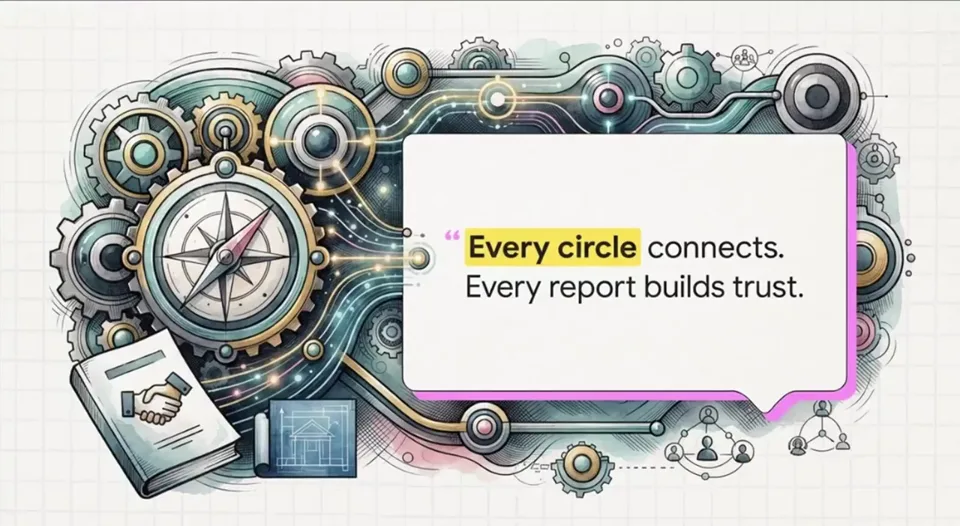
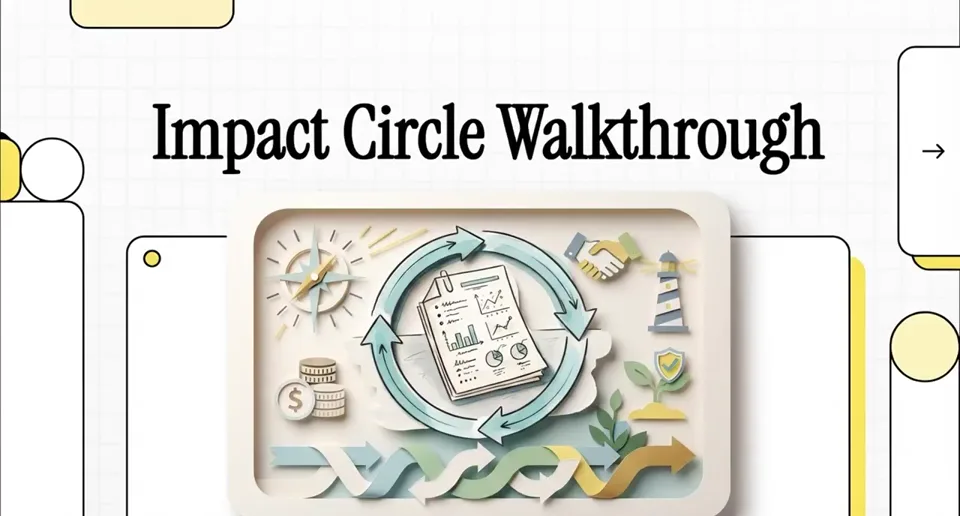
Add files via upload

diff --git a/career-profile.html b/career-profile.html
@@ -1460,8 +1460,8 @@ a.arch-node:hover{box-shadow:var(--shadow-sm);transform:translateY(-2px);color:v
         <div class="vw-head"><h3 id="vw-title">Watch the work</h3><span>Two short videos, AI-narrated with Google NotebookLM from my own sources</span></div>
         <div class="vw-grid">
           <figure class="vw-card">
-            <video controls preload="none" playsinline poster="./assets/thumbs/video-hub.webp" width="1280" height="700" aria-describedby="vw-hub-cap"><source src="./Stewardship_Hub.mp4" type="video/mp4"></video>
-            <figcaption id="vw-hub-cap"><b>Impact Circle · Stewardship Hub walkthrough</b><span>6½ min · How One Harvard partners, the seven-stage Impact Circle, SMARTER gates and VERITAS reports fit together, and the hub's team tools.</span><a href="./impact-circle.html">Open the hub ↗</a></figcaption>
+            <video controls preload="none" playsinline poster="./assets/thumbs/video-hub.webp?v=2" width="1280" height="688" aria-describedby="vw-hub-cap"><source src="./Stewardship_Hub.mp4" type="video/mp4"></video>
+            <figcaption id="vw-hub-cap"><b>Impact Circle · Stewardship Hub walkthrough</b><span>3½ min · The four-layer model, the reporting loop and its Release Gate, the proposed Ph.D. fellowship pilot, and the hub's team rhythm.</span><a href="./impact-circle.html">Open the hub ↗</a></figcaption>
           </figure>
           <figure class="vw-card">
             <video controls preload="none" playsinline poster="./assets/thumbs/video-story.webp?v=3" width="1920" height="1080" aria-describedby="vw-story-cap"><source src="./Story.mp4" type="video/mp4"></video>

diff --git a/README.md b/README.md
@@ -23,7 +23,7 @@
 
 <table>
 <tr>
-<td width="50%" valign="top"><a href="https://narissa-pgm.github.io/AAD/Stewardship_Hub.mp4"><img src="assets/video-hub.webp" width="100%" alt="Play: Impact Circle · Stewardship Hub walkthrough, 6½ minutes"></a><br><b>Impact Circle · Stewardship Hub walkthrough</b><br><sub>How One Harvard partners, the seven-stage Impact Circle, SMARTER gates and VERITAS reports fit together. <a href="https://narissa-pgm.github.io/AAD/impact-circle.html">Open the hub ↗</a></sub></td>
+<td width="50%" valign="top"><a href="https://narissa-pgm.github.io/AAD/Stewardship_Hub.mp4"><img src="assets/video-hub.webp" width="100%" alt="Play: Impact Circle · Stewardship Hub walkthrough, 3½ minutes"></a><br><b>Impact Circle · Stewardship Hub walkthrough</b><br><sub>The four-layer model, the reporting loop and its Release Gate, and the proposed Ph.D. fellowship pilot. <a href="https://narissa-pgm.github.io/AAD/impact-circle.html">Open the hub ↗</a></sub></td>
 <td width="50%" valign="top"><a href="https://narissa-pgm.github.io/AAD/Story.mp4"><img src="assets/video-story.webp" width="100%" alt="Play: donor thank-you story, sample, 4 minutes"></a><br><b>Donor thank-you story · sample</b><br><sub>A stewardship video for an endowed Ph.D. fellowship, with the email that delivers it. Donor, fund and student are fictional. <a href="https://narissa-pgm.github.io/AAD/donor-profile.html#story-email">See the email and the Release Gate review ↗</a></sub></td>
 </tr>
 </table>
